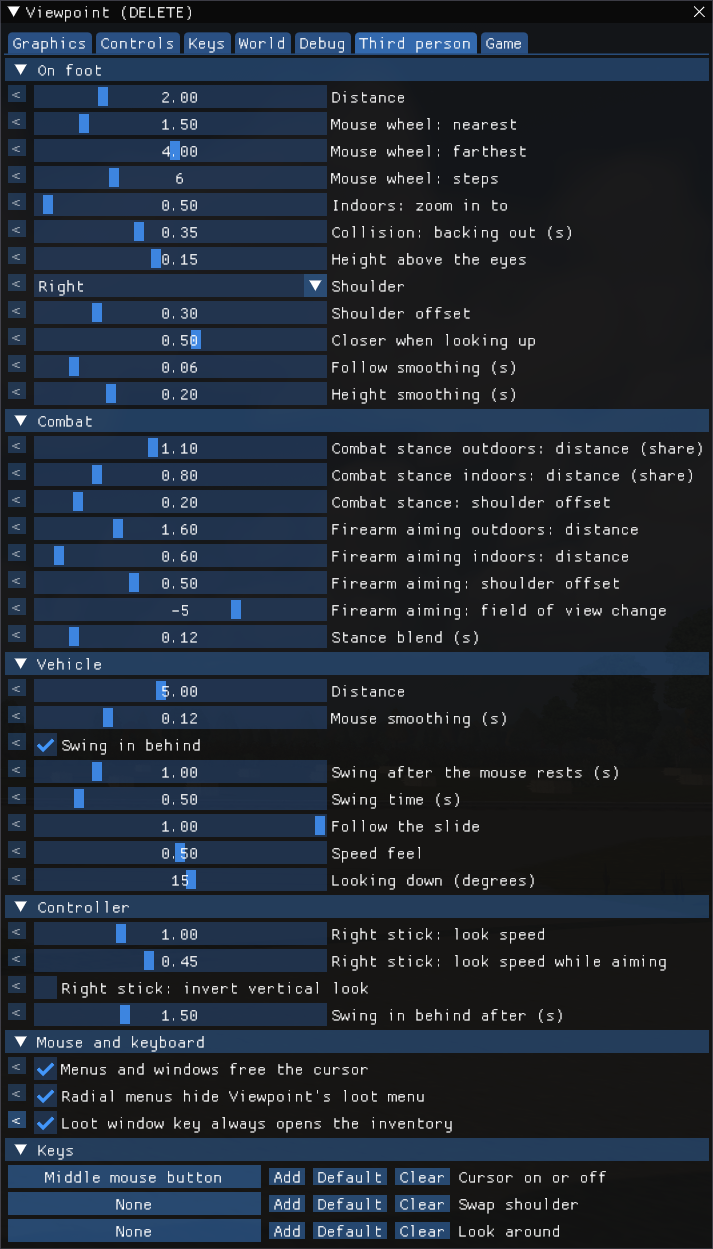
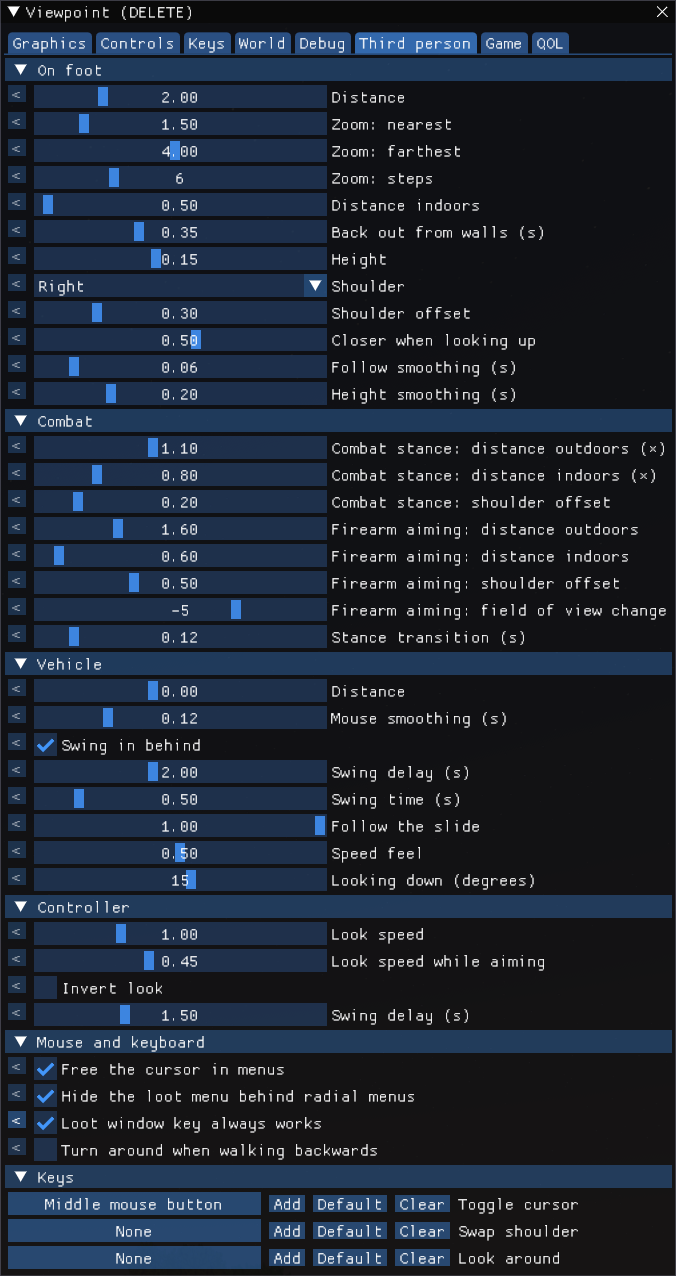
Add an option to turn around when walking backwards, release 0.3.4

diff --git a/src/pzmod/viewpointthirdperson/MouseKeyboard.java b/src/pzmod/viewpointthirdperson/MouseKeyboard.java
@@ -1,5 +1,6 @@
 package pzmod.viewpointthirdperson;
 
+import viewpoint.input.ThirdPerson;
 import viewpoint.platform.LiveSettings;
 
 // Loaded from init() only: classes the render thread touches in the main menu would register
@@ -10,10 +11,16 @@ public class MouseKeyboard {
     public static final LiveSettings.Toggle FREE_CURSOR = LiveSettings.toggle("thirdPersonCamera.menusFreeCursor", "Free the cursor in menus", SECTION, true);
     public static final LiveSettings.Toggle HIDE_LOOT = LiveSettings.toggle("thirdPersonCamera.menusHideLootPanel", "Hide the loot menu behind radial menus", SECTION, true);
     public static final LiveSettings.Toggle INVENTORY_KEY = LiveSettings.toggle("thirdPersonCamera.inventoryKey", "Loot window key always works", SECTION, false);
+    public static final LiveSettings.Toggle TURN_AROUND = LiveSettings.toggle("thirdPersonCamera.turnAround", "Turn around when walking backwards", SECTION, false);
 
     static {
         FREE_CURSOR.describe("Context menus, radial menus and windows such as the map.");
         INVENTORY_KEY.describe("Without a loot menu, it opens your inventory.");
+        TURN_AROUND.describe("Your character faces the camera instead of backpedalling.");
+    }
+
+    public static boolean turnsAround() {
+        return TURN_AROUND.get() && ThirdPerson.active && !LookAround.held;
     }
 
     public static void init() {

diff --git a/src/pzmod/viewpointthirdperson/ControllerLook.java b/src/pzmod/viewpointthirdperson/ControllerLook.java
@@ -165,7 +165,7 @@ public class ControllerLook {
     public static class Patch_backwards {
         @Patch.OnExit
         public static void exit(@Patch.Return(readOnly = false) boolean ret) {
-            if (ret && ControllerLook.active) ret = false;
+            if (ret && (ControllerLook.active || MouseKeyboard.turnsAround())) ret = false;
         }
     }
 
@@ -173,7 +173,7 @@ public class ControllerLook {
     public static class Patch_strafing {
         @Patch.OnExit
         public static void exit(@Patch.Return(readOnly = false) boolean ret) {
-            if (ret && ControllerLook.active) ret = false;
+            if (ret && (ControllerLook.active || MouseKeyboard.turnsAround())) ret = false;
         }
     }
 
